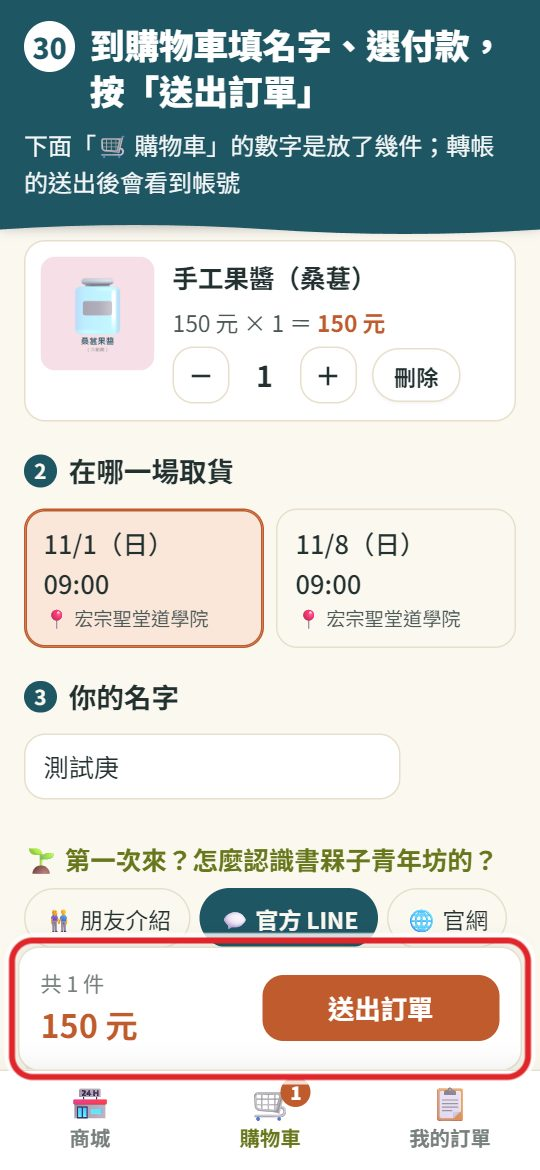
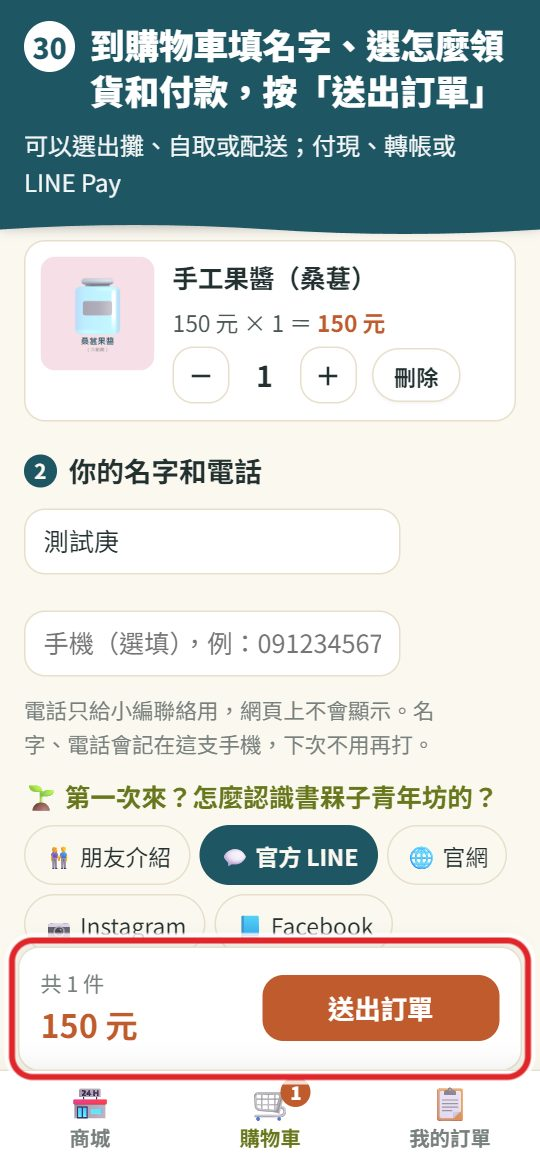
常見問題、截圖、圖解教學更新：結帳順序、自取日期、LINE Pay（新增「怎麼領貨」截圖）

diff --git a/tools/help-shots.js b/tools/help-shots.js
@@ -145,8 +145,8 @@ const SHOTS = [
   // 團購商城：商品大圖格子（示範資料的團購）
   { name: 'shop-page', hash: '#/shop', js: `await __wait(2500);`,
     clip: `const t = document.querySelector('#view-shop .page-title'); t.scrollIntoView(); const r = t.getBoundingClientRect(); const g = document.querySelector('.shop-grid').getBoundingClientRect(); return { x: 0, y: r.top + scrollY - 8, width: innerWidth, height: g.bottom - r.top + 20 };` },
-  // 結帳：怎麼領貨（出攤／自取／配送，2026/11/3）
-  { name: 'shop-method', hash: '#/shop', js: `await __wait(2500); const t = document.querySelector('.shop-tile'); const m = t.getAttribute('href').match(/#\\/shop\\/([^/]+)\\/p\\/([^/]+)/); localStorage.setItem('shumeizi:cart:' + m[1], JSON.stringify([{ id: m[2], option: '', qty: 1 }])); location.hash = '#/shop/' + m[1] + '/cart'; await __wait(1500); const r = document.querySelector('input[name=method][value=自取]'); if (r) r.click(); await __wait(400);`,
+  // 結帳：怎麼領貨（出攤／自取／配送，2026/11/3；自取選地點、日期，2026/11/4）
+  { name: 'shop-method', hash: '#/shop', js: `await __wait(2500); const t = [...document.querySelectorAll('.shop-tile')].find((x) => /手工豆腐/.test(x.textContent)); const m = t.getAttribute('href').match(/#\\/shop\\/([^/]+)\\/p\\/([^/]+)/); localStorage.setItem('shumeizi:cart:' + m[1], JSON.stringify([{ id: m[2], option: '', qty: 1 }])); location.hash = '#/shop/' + m[1] + '/cart'; await __wait(1500); const r = document.querySelector('input[name=method][value=自取]'); if (r) r.click(); await __wait(400); const sp = document.querySelector('input[name=spot][value=示範站A]'); if (sp) sp.click(); await __wait(400); const sd = document.querySelector('input[name=spotDate]'); if (sd) sd.click(); await __wait(400);`,
     clip: `const s = [...document.querySelectorAll('.shop-step')].find((x) => /怎麼領貨/.test(x.textContent)); return __box(s, 8);` },
   // 我的訂單：分頁、訂單卡、待付總額
   { name: 'shop-orders', hash: null, js: `localStorage.setItem('shumeizi:mine-name', '測試甲'); location.hash = '#/shop/orders'; await __wait(2500); window.scrollTo(0, 0);`,

diff --git a/tools/tutorial-shots.js b/tools/tutorial-shots.js
@@ -160,7 +160,7 @@ const SUB = {
   '27': '在行事曆最上面；沒有開放中的團購時不會出現',
   '28': '照片下面有價格、已經賣了幾份；有寫「剩 N」的是限量',
   '29': '照片可以左右滑；有口味、大小的要先選一個',
-  '30': '下面「🛒 購物車」的數字是放了幾件；轉帳的送出後會看到帳號',
+  '30': '可以選出攤、自取或配送；付現、轉帳或 LINE Pay',
   '31': '在下面「📋 我的訂單」可以改數量、取消；轉帳的在那裡通知小編'
 };
 const sub = (n, dev) => { const s = SUB[n]; return Array.isArray(s) ? s[dev === 'ios' ? 0 : 1] : (s || ''); };
@@ -285,7 +285,7 @@ async function main() {
     await run(c, `${frame('28', '', '.shop-grid')}`);
     await shoot(c, '28');
     // 商品頁：手工果醬（有口味），選桑葚、加入購物車
-    await run(c, `document.querySelectorAll('.tut-x').forEach((x) => x.remove()); document.querySelectorAll('.shop-tile')[1].click(); await W(1500);
+    await run(c, `document.querySelectorAll('.tut-x').forEach((x) => x.remove()); [...document.querySelectorAll('.shop-tile')].find((x) => /手工果醬/.test(x.textContent)).click(); await W(1500);
       document.querySelector('input[data-opt][value="桑葚"]').click(); await W(400); ${frame('29', '', '.shop-opt')}`);
     await shoot(c, '29');
     await run(c, `document.querySelectorAll('.tut-x').forEach((x) => x.remove()); $('[data-add]').click(); await W(500);

diff --git a/index.html b/index.html
@@ -153,7 +153,7 @@
   <script src="js/admin-shop.js?v=20261104b"></script>
   <script src="js/admin-stock.js?v=20261102d"></script>
   <script src="js/shop.js?v=20261104b"></script>
-  <script src="js/tutorial.js?v=20261016b"></script>
+  <script src="js/tutorial.js?v=20261104a"></script>
   <script src="js/help.js?v=20261016b"></script>
   <script src="js/rollcall.js?v=20261016b"></script>
   <script src="js/stats-export.js?v=20261016b"></script>

diff --git a/js/tutorial.js b/js/tutorial.js
@@ -38,7 +38,7 @@
     '27': '有團購時，按「🛒 團購」',
     '28': '點想買的商品',
     '29': '選口味、數量，按「加入購物車」',
-    '30': '到購物車填名字、選付款，按「送出訂單」',
+    '30': '到購物車填名字、選怎麼領貨和付款，按「送出訂單」',
     '31': '看到「訂好了」就完成了 🎉'
   };
   const CHAPTERS = [
